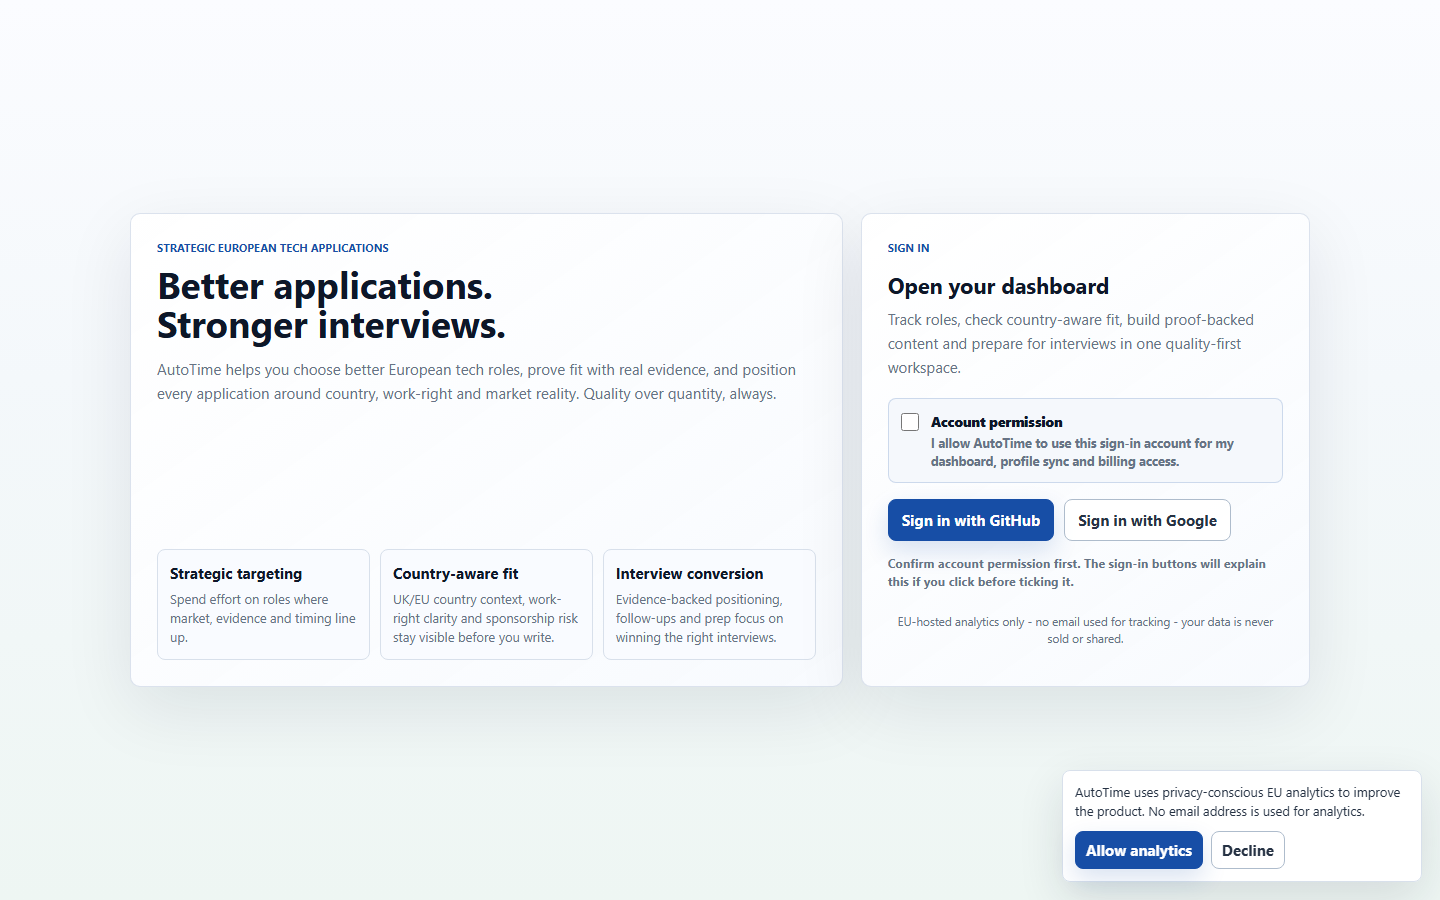
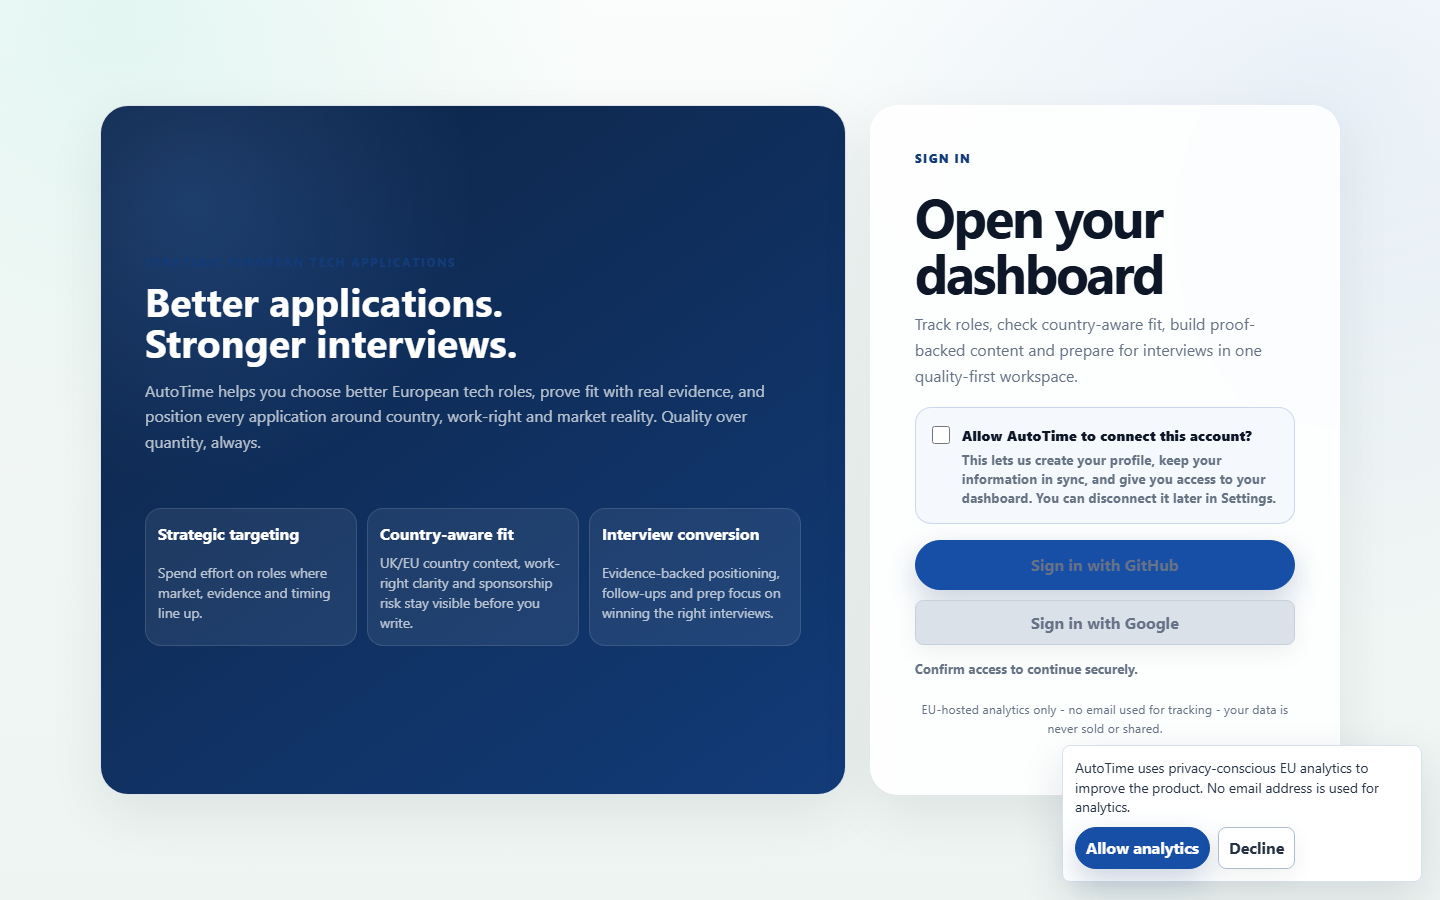
Disable OAuth sign-in buttons until account consent is given
Sign in with GitHub/Google, and Continue to dashboard, previously
stayed clickable while the account-consent checkbox was unchecked,
relying only on an inline status message after the click. Buttons now
reflect the actual precondition via the disabled attribute.

Updates the one e2e test that asserted button colors without checking
consent first, since disabled buttons now render with the global
button:disabled styling.

diff --git a/apps/web/components/LoginContent.tsx b/apps/web/components/LoginContent.tsx
@@ -290,7 +290,7 @@ function LoginForm() {
             ) : null}
             <div className="header-actions auth-provider-actions">
               <button
-                disabled={Boolean(pendingProvider)}
+                disabled={Boolean(pendingProvider) || !accountConsent}
                 type="button"
                 onClick={continueWithExistingSession}
               >
@@ -309,7 +309,7 @@ function LoginForm() {
         ) : (
           <div className="header-actions auth-provider-actions">
             <button
-              disabled={Boolean(pendingProvider)}
+              disabled={Boolean(pendingProvider) || !accountConsent}
               type="button"
               onClick={() => handleSignIn("github")}
             >
@@ -319,7 +319,7 @@ function LoginForm() {
             </button>
             <button
               className="secondary-button"
-              disabled={Boolean(pendingProvider)}
+              disabled={Boolean(pendingProvider) || !accountConsent}
               type="button"
               onClick={() => handleSignIn("google")}
             >

diff --git a/tests/e2e/33-phase-8-landing-login.spec.ts b/tests/e2e/33-phase-8-landing-login.spec.ts
@@ -89,8 +89,14 @@ test("login page sign-in buttons are green-free with a single primary action", a
   await forbiddenGreen(".auth-shell")(page);
 
   const githubButton = page.getByRole("button", { name: "Sign in with GitHub" });
-  await expect(githubButton).toHaveCSS("background-color", "rgb(23, 78, 166)");
   const googleButton = page.getByRole("button", { name: "Sign in with Google" });
+  await expect(githubButton).toBeDisabled();
+  await expect(googleButton).toBeDisabled();
+
+  await page.getByRole("checkbox").check();
+  await expect(githubButton).toBeEnabled();
+  await expect(githubButton).toHaveCSS("background-color", "rgb(23, 78, 166)");
+  await expect(googleButton).toBeEnabled();
   await expect(googleButton).not.toHaveCSS("background-color", "rgb(23, 78, 166)");
 
   await page.setViewportSize({ width: 390, height: 844 });
